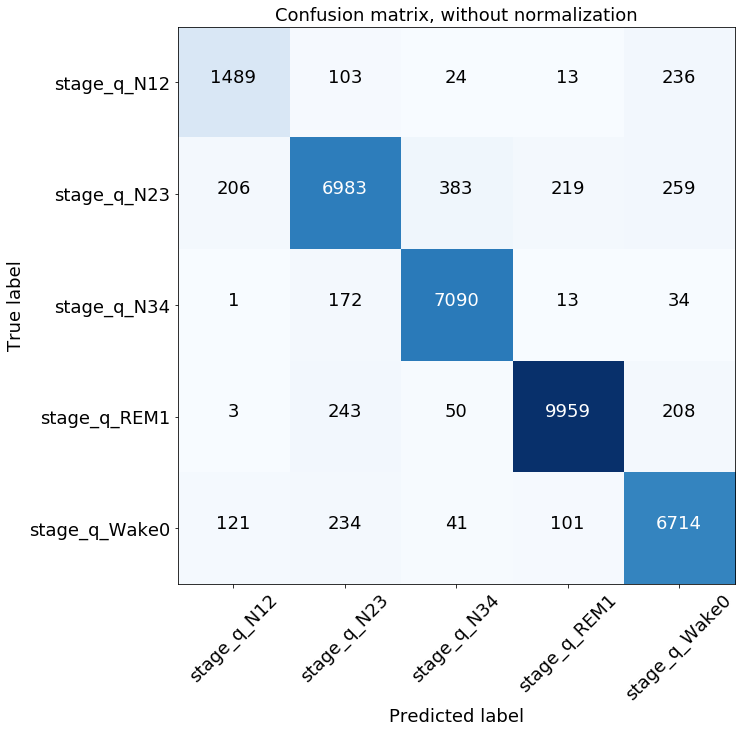
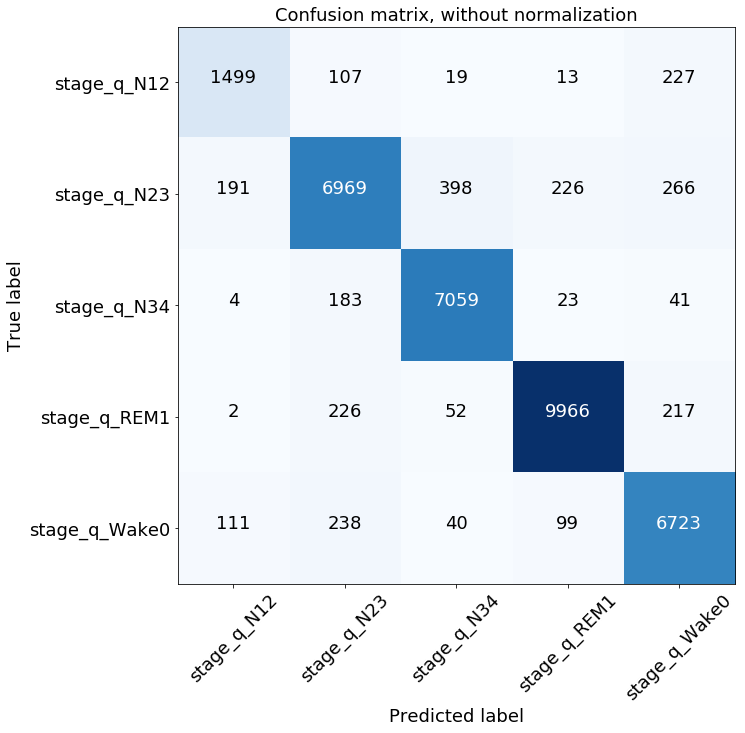
classifiers and conclusion

diff --git a/slides/40_Classifiers.md b/slides/40_Classifiers.md
@@ -1,6 +1,6 @@
 # Random Forest
 ## Performance
-- Assessed with crossvalidation
+- Assessed with crossvalidation, Score: 0.923
 
 ![Confusion Matrix](gfx/random_forest_confusion.png)
 ![Normalized Confusion Matrix](gfx/random_forest_confusion_norm.png)
@@ -15,9 +15,9 @@
 
 | Model |  Bootstrap | Criterion | Depth  | Features for split | N Trees | Score           |
 | ----- | ---------- | --------- | :-----:| :-----------------:| :------ | :-------------- |
-| 1     | True       |  Entropy  | None   |  10                |    61   |0.920 $\pm$ 0.001|
-| 2     | False      |  Entropy  | None   |  21                |    70   |0.919 $\pm$ 0.002|
-| 3     | True       |  Entropy  | None   |  9                 |    35   |0.918 $\pm$ 0.003|
+| 1     | False      |  Entropy  | None   |  21                |    73   |0.919 $\pm$ 0.003|
+| 2     | False      |  Entropy  | None   |  16                |    25   |0.919 $\pm$ 0.004|
+| 3     | False      |  Entropy  | None   |  14                |    25   |0.918 $\pm$ 0.002|
 
 
 ## The worst Forest Parameters
@@ -25,39 +25,46 @@
 
 | Model |  Bootstrap | Criterion | Depth  | Features for split | N Trees | Score           |
 | ----- | ---------- | --------- | :-----:| :-----------------:| :------ | :-------------- |
-| 18    | True       |  Entropy  | 3      |  31                |    73   |0.541 $\pm$ 0.021|
-| 19    | True       |  Gini     | 3      |  34                |    37   |0.525 $\pm$ 0.003|
-| 20    | False      |  Entropy  | 3      |  30                |    91   |0.504 $\pm$ 0.028|
+| 18    | True       |  Entropy  | 3      |  37               |    53   |0.498 $\pm$ 0.039|
+| 19    | False      |  Entropy  | 3      |  38               |    25   |0.453 $\pm$ 0.020|
+| 20    | False      |  Entropy  | 3      |  38               |    48   |0.441 $\pm$ 0.028|
 
--> Depth matters
+-> Classifiers with unrestricted depth and less features for split perform better
 
 # AdaBoost
 
+## AdaBoost in Scikit learn
+
+- Scikit learn uses as algorithm SAMME/SAMME.R
+- SAMME : Stagewise Additive Modeling using a Multi-class Exponential loss function (@freund1997decision),
+- puts more weight on misclassified data points than AdaBoost you know
+- SAMME.R (R for real) uses weighted probability esitimates to update the additive model (empirical vs. population loss)
+
 ## Performance
-- Assessed with crossvalidation
+- Assessed with crossvalidation, Score:  0.745
 
 ![Confusion Matrix](gfx/adaboost_confusion.png)
 ![Normalized Confusion Matrix](gfx/adaboost_confusion_norm.png)
 
 ## The best AdaBoost Parameters
 
-| Model |  N Trees | Algorithm |  Score           |
-| ----- | ---------| --------- |  :-------------- |
-| 1     | 81       |  SAMME.R | 0.620 $\pm$ 0.006|
-| 2     | 78       |  SAMME.R  | 0.620 $\pm$ 0.005|
-| 3     | 98       |  SAMME.R | 0.620 $\pm$ 0.007|
+| Model |  N Trees  |Tree Depth| Algorithm |  Score           |
+| ----- | ----------| -------- | --------- |  :-------------- |
+| 1     | 188       |   3      | SAMME.R   | 0.810 $\pm$ 0.006|
+| 2     | 151       |    3     |  SAMME.R  | 0.797 $\pm$ 0.003|
+| 3     | 128       |    3     |  SAMME.R  | 0.791 $\pm$ 0.002|
 
 
 ## The worst AdaBoost Parameters
 
 
-| Model  |  N Trees | Algorithm |  Score           |
-| ------ | ---------| --------- |  :-------------- |
-| 18     | 34       |  SAMME    | 0.511 $\pm$ 0.025|
-| 19     | 28       |  SAMME    | 0.506 $\pm$ 0.021|
-| 20     | 18       |  SAMME    | 0.465 $\pm$ 0.024|
+| Model  |  N Trees |Tree Depth | Algorithm |  Score           |
+| ------ | ---------| --------  | --------- |  :-------------- |
+| 18     | 106      |   1       | SAMME     | 0.570 $\pm$ 0.002|
+| 19     | 82       |   1       |   SAMME   | 0.559 $\pm$ 0.000|
+| 20     | 77       |   1       |  SAMME    | 0.465 $\pm$ 0.006|
 
--> SAMME.R performs better
+-> Classifiers with more trees, depth and SAMME.R performs better
 
 # Comparison on validation data
 
@@ -70,3 +77,22 @@
 
 ![Confusion Matrix](gfx/adaboost_confusion_val.png)
 ![Normalized Confusion Matrix](gfx/adaboost_confusion_norm_val.png)
+
+## Classification results visualized
+
+![Wrong predictions vizualized for the different sleep stages for one recording](gfx/clf_results_random_forest_subj1.png)
+
+- Only for one subject
+- Using Random Forest Classifier, Score:  0.945
+
+## An idea to improve the predictions
+
+!['Improved' predictions vizualized for the different sleep stages for one recording](gfx/clf_results_random_forest_subj1_smooth.png)
+
+- Smoothing out wrong prediction in the middle of the sleep face
+- Smoothing kernel size 15 Timesteps (1sec)
+- A little improvement, Score: 0.959
+
+
+
+

diff --git a/slides/50_Conclusion.md b/slides/50_Conclusion.md
@@ -1,2 +1,7 @@
-# Interpretation
 # Conclusion
+
+## Sleep stage classification with DWT 
+
+- Works well on the data we have
+- Smoothing and changing hyperparameters may improve the classifications a lot
+
